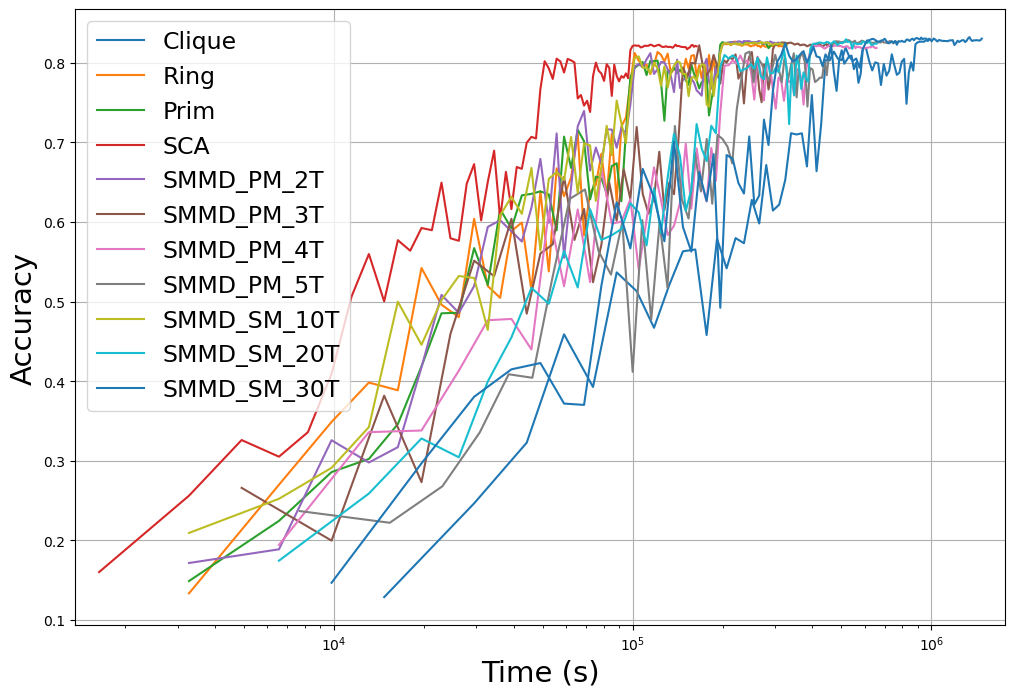
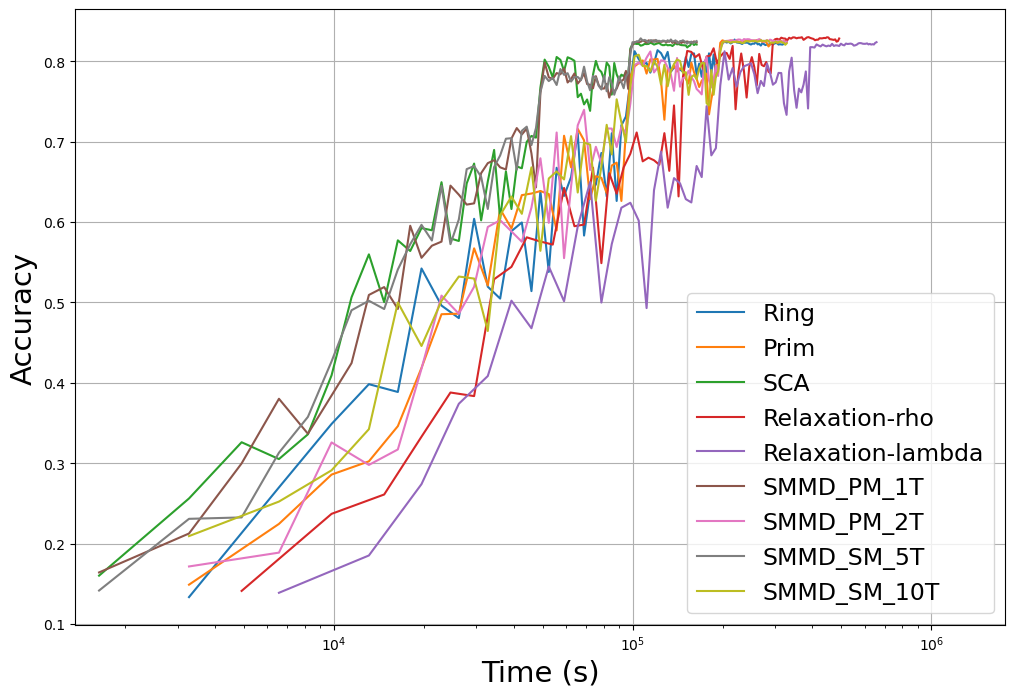
Tingyang: update plots

diff --git a/readpkcopy.py b/readpkcopy.py
@@ -9,24 +9,26 @@ import numpy as np
 
 # Define the file paths
 all_file_paths = [
-    "result_for_resnet_Roofnet_CIFAR10_clique.pkl",
+    # "result_for_resnet_Roofnet_CIFAR10_clique.pkl",
     "result_for_resnet_Roofnet_CIFAR10_prim.pkl",
     "result_for_resnet_Roofnet_CIFAR10_ring.pkl",
     "result_for_resnet_Roofnet_CIFAR10_SCA23_1.pkl",
-    # "result_for_resnet_Roofnet_CIFAR10_SDRLambda2Ew_1.pkl",
-    # "result_for_resnet_Roofnet_CIFAR10_SDRRhoEw_1.pkl",
+    "result_for_resnet_Roofnet_CIFAR10_SDRLambda2Ew_1.pkl",
+    "result_for_resnet_Roofnet_CIFAR10_SDRRhoEw_1.pkl",
     # "result_for_resnet_SMMD_PM_3T.pkl",
+    "result_for_resnet_SMMD_PM_1T.pkl",
     "result_for_resnet_SMMD_PM_2T.pkl",
-    "result_for_resnet_SMMD_PM_3T.pkl",
-    "result_for_resnet_SMMD_PM_4T.pkl",
-    "result_for_resnet_SMMD_PM_5T.pkl",
-    "result_for_resnet_SMMD_SM_20T.pkl",
+    # "result_for_resnet_SMMD_PM_3T.pkl",
+    # "result_for_resnet_SMMD_PM_4T.pkl",
+    # "result_for_resnet_SMMD_PM_5T.pkl",
+    "result_for_resnet_SMMD_SM_5T.pkl",
+    # "result_for_resnet_SMMD_SM_20T.pkl",
     "result_for_resnet_SMMD_SM_10T.pkl",
-    "result_for_resnet_SMMD_SM_30T.pkl"
+    # "result_for_resnet_SMMD_SM_30T.pkl"
 ]
 
 # Set the mode to either "SMMD_PM", "SMMD_SM", or "all"
-mode = "SMMD_SM"   # Change this value to choose the desired mode
+mode = "all"   # Change this value to choose the desired mode
 
 if mode == "SMMD_PM":
     file_paths = [fp for fp in all_file_paths if "SMMD_PM" in fp]
@@ -127,6 +129,7 @@ categorized_results = {
     'Prim': f'{network_type}_{data_type}_prim',
     'SMMD_SM_10T': 'SMMD_SM_10T',
     'SMMD_PM_10T': 'SMMD_PM_10T',
+    'SMMD_PM_1T': 'SMMD_PM_1T',
     'SMMD_PM_2T': 'SMMD_PM_2T',
     'SMMD_PM_3T': 'SMMD_PM_3T',
     'SMMD_PM_4T': 'SMMD_PM_4T',
@@ -135,6 +138,7 @@ categorized_results = {
     'SMMD_PM_7T': 'SMMD_PM_7T',
     'SMMD_PM_8T': 'SMMD_PM_8T',
     'SMMD_PM_9T': 'SMMD_PM_9T',
+    'SMMD_SM_5T': 'SMMD_SM_5T',
     'SMMD_SM_20T': 'SMMD_SM_20T',
     'SMMD_SM_30T': 'SMMD_SM_30T',
     'SMMD_SM_40T': 'SMMD_SM_40T',
@@ -145,10 +149,11 @@ categorized_results = {
 order = [
     'Clique', 'Ring', 'Prim', 
     'SCA', 
-    # 'Relaxation-rho', 'Relaxation-lambda', 'Greedy',
-    'SMMD_PM_2T', 'SMMD_PM_3T', 'SMMD_PM_4T', 'SMMD_PM_5T',
+    'Relaxation-rho', 'Relaxation-lambda', 
+    'Greedy',
+    'SMMD_PM_1T', 'SMMD_PM_2T', 'SMMD_PM_3T', 'SMMD_PM_4T', 'SMMD_PM_5T',
     'SMMD_PM_6T', 'SMMD_PM_7T', 'SMMD_PM_8T', 'SMMD_PM_9T', 'SMMD_PM_10T',
-    'SMMD_SM_10T', 'SMMD_SM_20T', 'SMMD_SM_30T', 'SMMD_SM_40T', 'SMMD_SM_45T'
+    'SMMD_SM_5T', 'SMMD_SM_10T', 'SMMD_SM_20T', 'SMMD_SM_30T', 'SMMD_SM_40T', 'SMMD_SM_45T'
 ]
 
 # Initialize dictionaries to store averaged metrics from each file
@@ -196,12 +201,14 @@ time_dict_without_route = {
     'SMMD_PM_4T': 6553.523775,
     'SMMD_PM_3T': 4915.165368,
     'SMMD_PM_2T': 3276.78583,
+    'SMMD_PM_1T': 1638.397705,
     # SMMD_SM (without routing)
     'SMMD_SM_20T': 6553.582935,
     'SMMD_SM_15T': 4915.172324,
     'SMMD_SM_25T': 8191.968195,
     'SMMD_SM_30T': 9830.275996,
-    'SMMD_SM_10T': 3276.790484
+    'SMMD_SM_10T': 3276.790484,
+    'SMMD_SM_5T': 1638.388454
 }
 
 
@@ -230,12 +237,14 @@ time_dict_with_route = {
     'SMMD_PM_4T': 6241.41079,
     'SMMD_PM_3T': 4594.954563,
     'SMMD_PM_2T': 3181.357921,
+    'SMMD_PM_1T': 1638.397705,
     # SMMD_SM (with routing)
     'SMMD_SM_20T': 6220.816388,
     'SMMD_SM_15T': 4725.247485,
     'SMMD_SM_25T': 7631.366969,
     'SMMD_SM_30T': 9187.104194,
-    'SMMD_SM_10T': 3181.359211
+    'SMMD_SM_10T': 3181.359211,
+    'SMMD_SM_5T': 1606.274502
 }
 
 # Set the same x-axis range for both plots

diff --git a/checkpkl.py b/checkpkl.py
@@ -25,9 +25,7 @@ def print_numpy_arrays(data, indent=0):
     # If the data is a list or tuple, iterate over its elements
     elif isinstance(data, (list, tuple)):
         print(f"{prefix}Found {type(data).__name__} with {len(data)} elements:")
-        for i, item in enumerate(data):
-            print(f"{prefix}Index {i}:")
-            print_numpy_arrays(item, indent+4)
+        print(data)
     # Otherwise, print the type of the data (if desired)
     else:
         print(f"{prefix}Type: {type(data)} (not a NumPy array)")

diff --git a/test.py b/test.py
@@ -26,10 +26,10 @@ def mat_to_pkl(mat_file, pkl_file, varname='W'):
 def main():
     # Hard-coded list of .mat files you want to convert
     mat_files = [
-        "mixing_matrix_SMMD_PM_3T.mat",
+        "mixing_matrix_SMMD_PM_1T.mat",
         # "mixing_matrix_SMMD_PM_4T.mat",
         # "mixing_matrix_SMMD_PM_5T.mat",
-        # "mixing_matrix_SMMD_SM_10T.mat",
+        "mixing_matrix_SMMD_SM_5T.mat",
         # "mixing_matrix_SMMD_SM_30T.mat",
         # "mixing_matrix_SMMD_SM_40T.mat"
     ]

diff --git a/dpsgd_cifar_new.py b/dpsgd_cifar_new.py
@@ -166,7 +166,7 @@ def main(mixing_matrix_path, output_file):
     steps_per_epoch = x_train.shape[0] // big_batch_size
     lr_schedule = tf.keras.optimizers.schedules.PiecewiseConstantDecay(
         boundaries=[30 * steps_per_epoch, 60 * steps_per_epoch],
-        values=[0.1, 0.05, 0.01]
+        values=[0.8, 0.08, 0.01]
     )
 
     # Load the mixing matrix from the provided pickle file.
